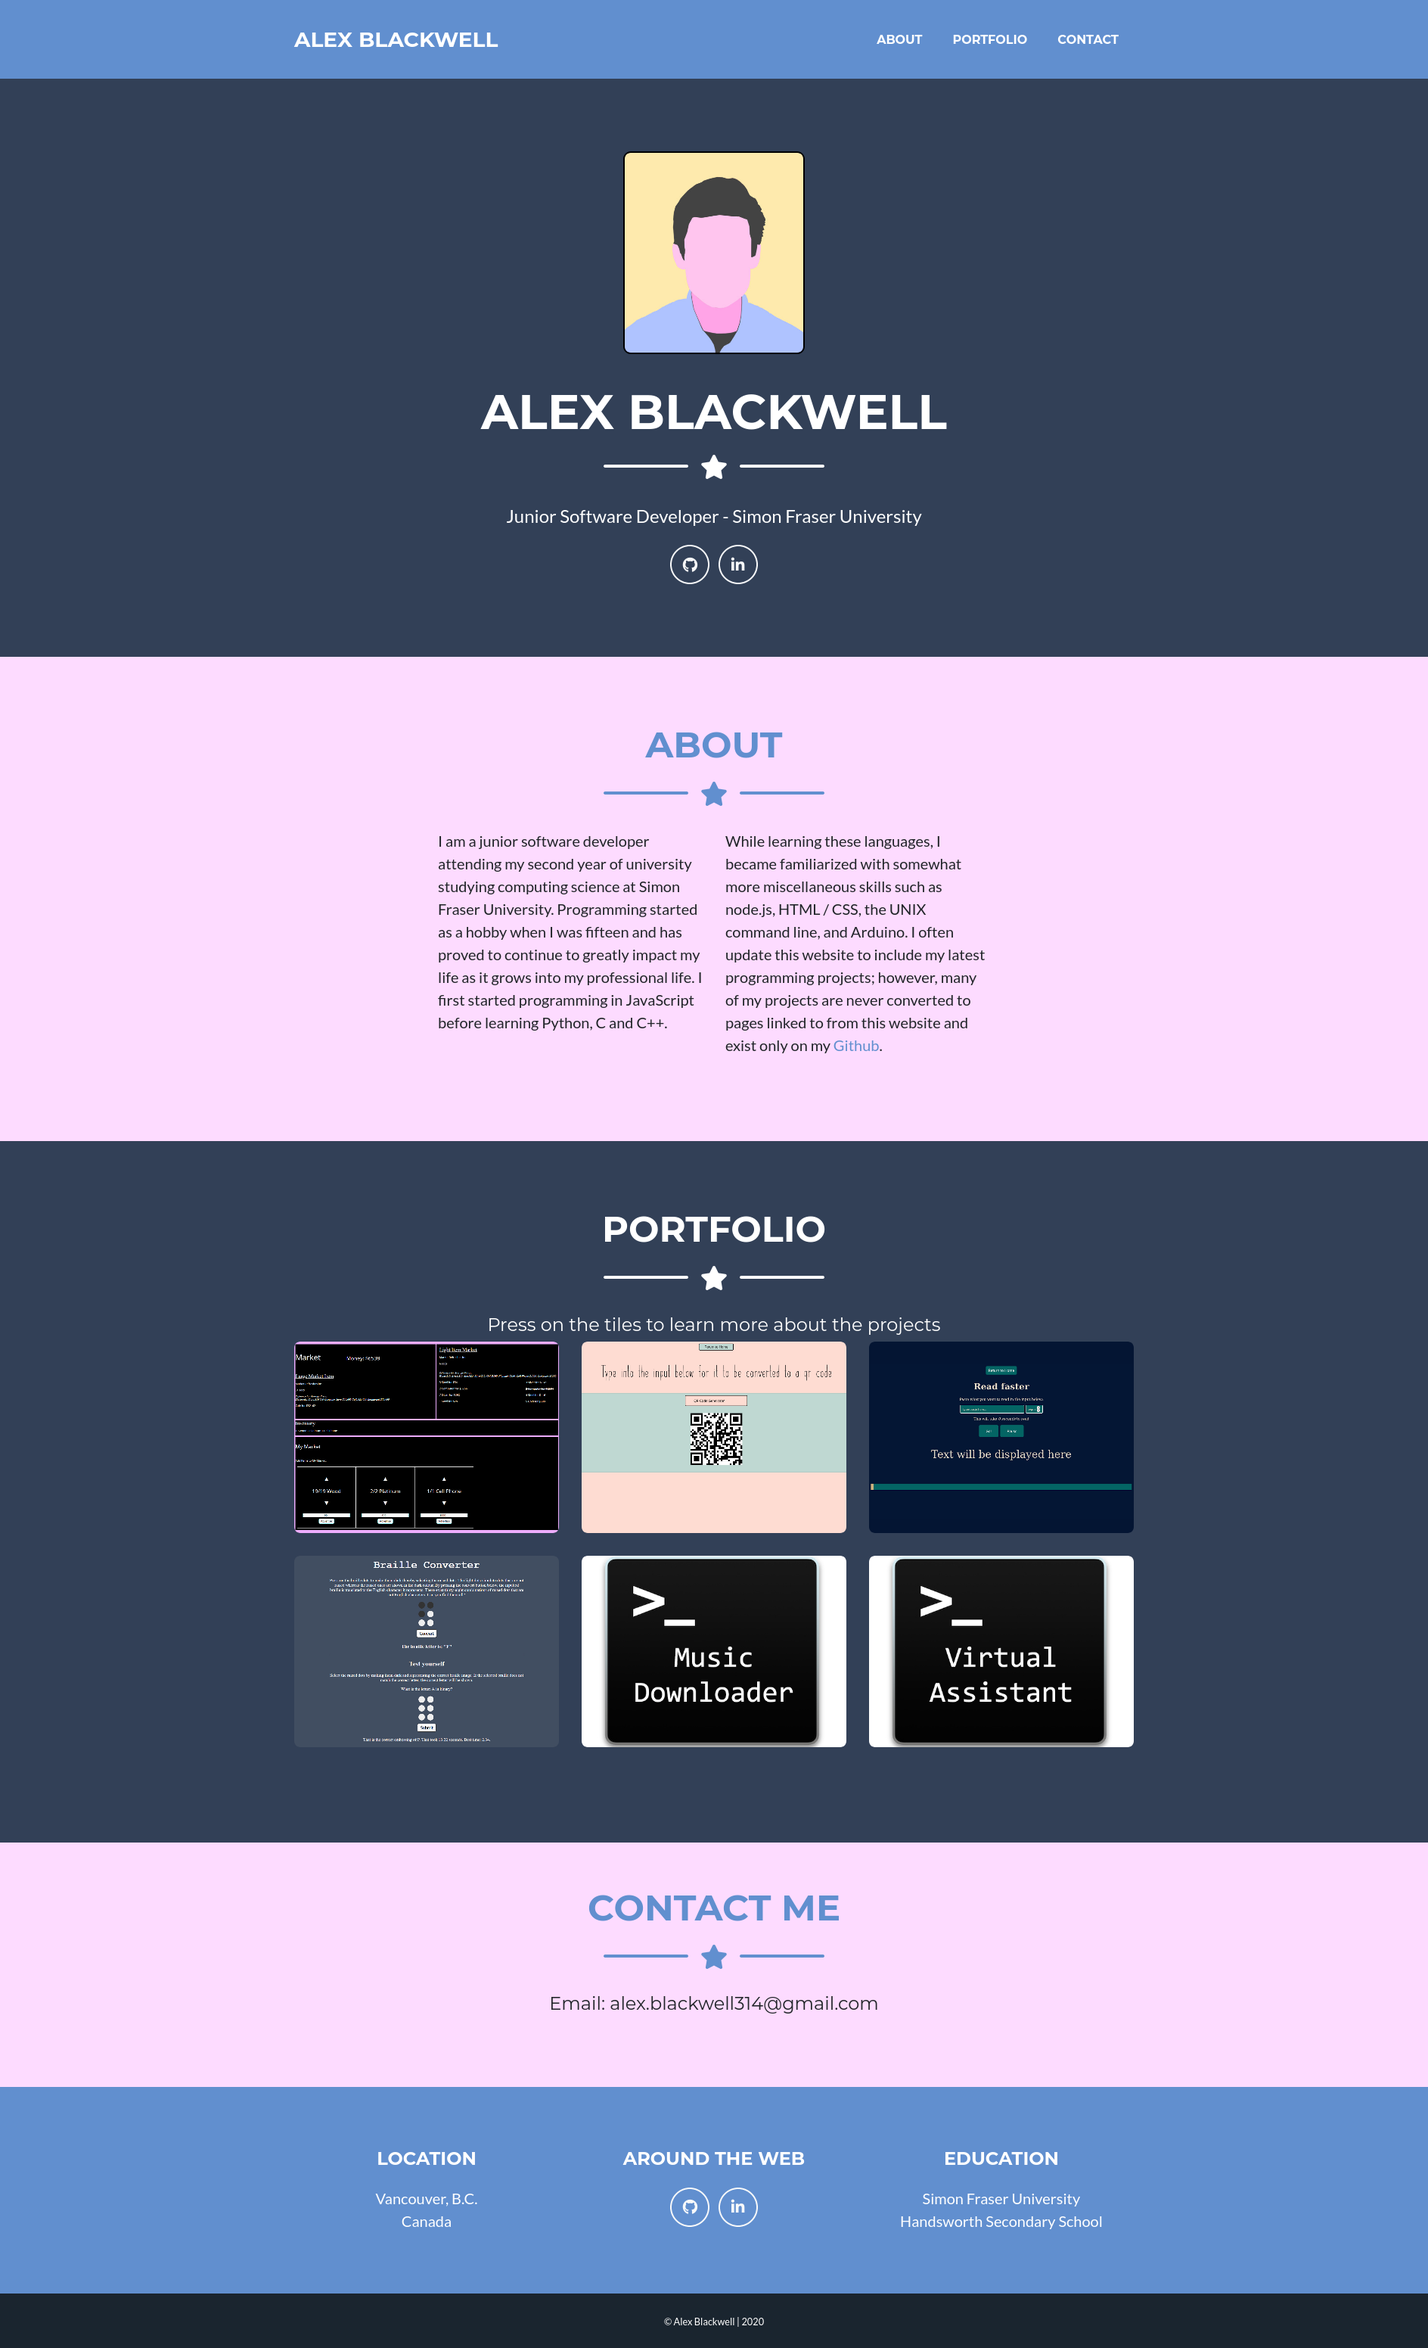
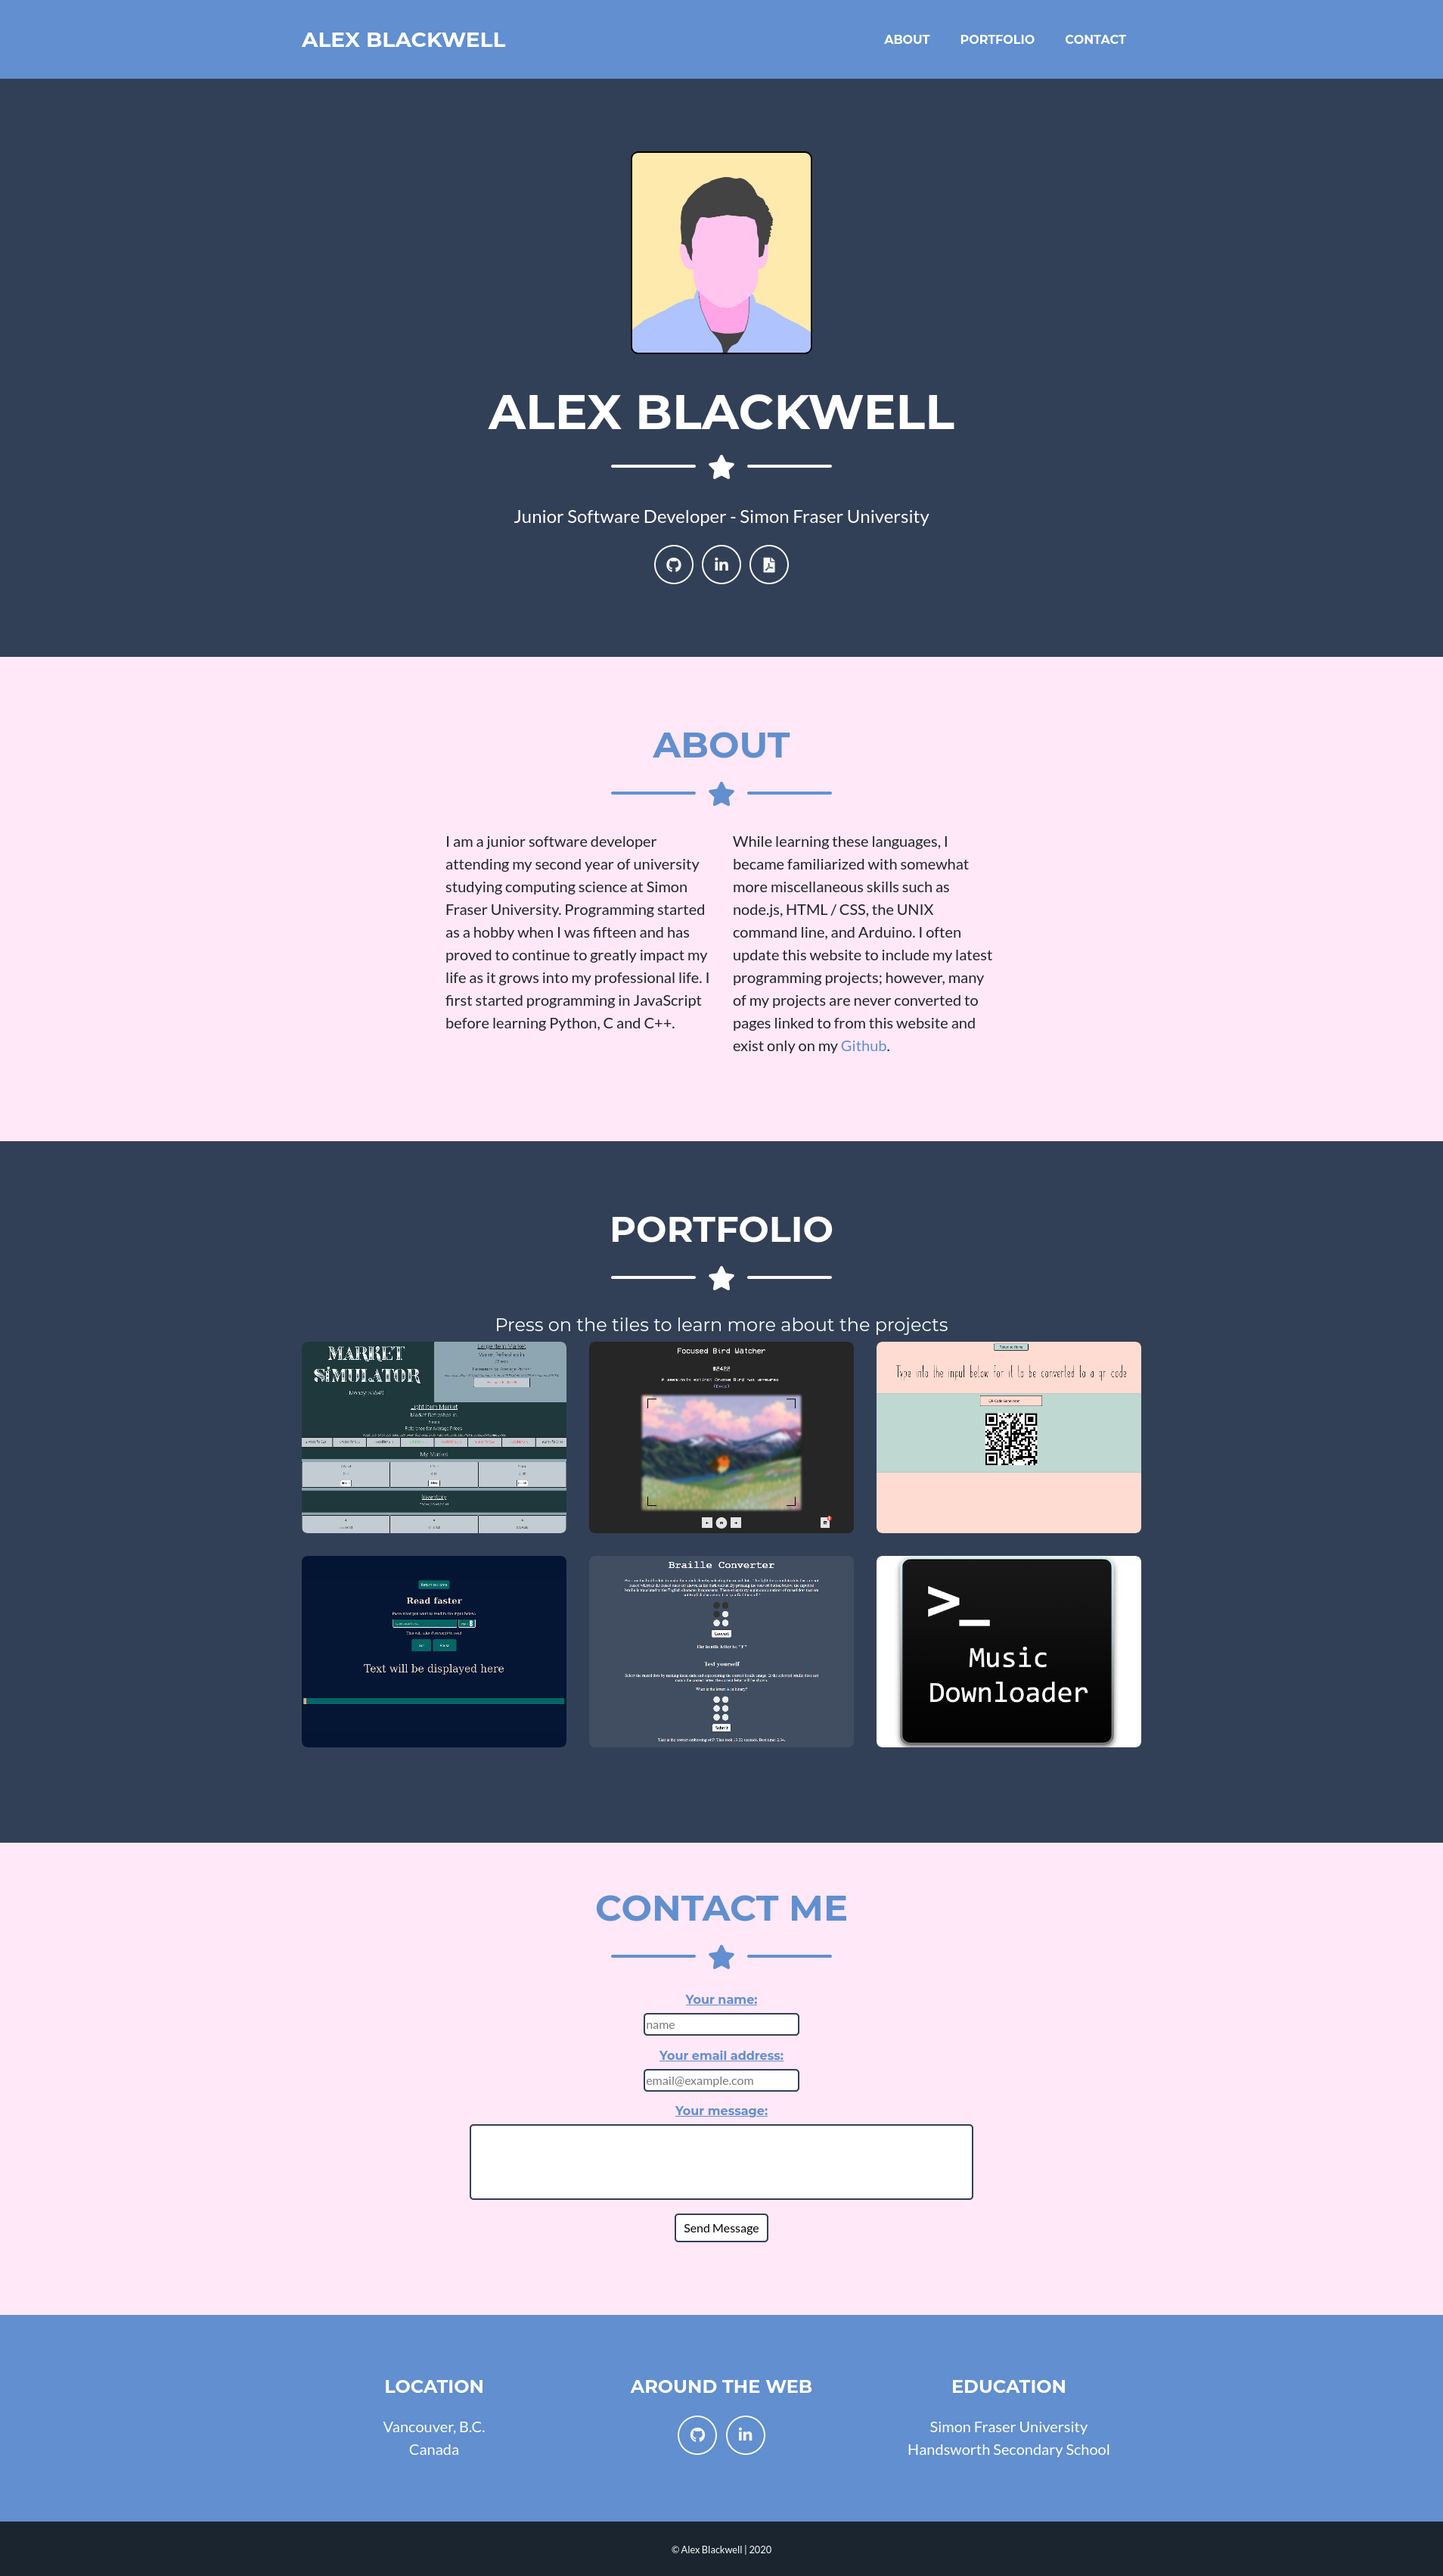
update readme and package.json

diff --git a/index.html b/index.html
@@ -588,88 +588,6 @@
     </div>
   </div>
 
-  <!-- Portfolio Modal 6 -->
-  <!-- <div class="portfolio-modal modal fade" id="portfolioModal6" tabindex="-1" role="dialog" aria-labelledby="portfolioModal6Label" aria-hidden="true">
-    <div class="modal-dialog modal-xl" role="document">
-      <div class="modal-content">
-        <button type="button" class="close" data-dismiss="modal" aria-label="Close">
-          <span aria-hidden="true">
-            <i class="fas fa-times"></i>
-          </span>
-        </button>
-        <div class="modal-body text-center">
-          <div class="container">
-            <div class="row justify-content-center">
-              <div class="col-lg-8">
-
-                <h2 class="portfolio-modal-title text-secondary text-uppercase mb-0">Virtual Assistant</h2>
-
-                <div class="divider-custom">
-                  <div class="divider-custom-line"></div>
-                  <div class="divider-custom-icon">
-                    <i class="fas fa-star"></i>
-                  </div>
-                  <div class="divider-custom-line"></div>
-                </div>
-
-                <a href="https://github.com/Alex0Blackwell/virtual-assistant">
-                  <img class="img-fluid rounded mb-5" src="img/portfolio/terminalVirtual.jpg" alt="">
-                </a>
-
-                <p class="mb-5">This is a python based virtual assistant (named Grimmels). The assistant has the ability to parse speech to text and with this text, add features. Among the virtual assistants' features include responding to greeting-type phrases and setting timers. The program uses the following modules for recording / writing .wav files, and recognizing speech to text. <br> The Github link can be found <a href="https://github.com/Alex0Blackwell/virtual-assistant">here</a>.</p>
-                <button class="btn btn-primary" href="#" data-dismiss="modal">
-                  <i class="fas fa-times fa-fw"></i>
-                  Close Window
-                </button>
-              </div>
-            </div>
-          </div>
-        </div>
-      </div>
-    </div>
-  </div> -->
-
-  <!-- Portfolio Modal 7 not shown -->
-  <!-- <div class="portfolio-modal modal fade" id="portfolioModal6" tabindex="-1" role="dialog" aria-labelledby="portfolioModal6Label" aria-hidden="true">
-    <div class="modal-dialog modal-xl" role="document">
-      <div class="modal-content">
-        <button type="button" class="close" data-dismiss="modal" aria-label="Close">
-          <span aria-hidden="true">
-            <i class="fas fa-times"></i>
-          </span>
-        </button>
-        <div class="modal-body text-center">
-          <div class="container">
-            <div class="row justify-content-center">
-              <div class="col-lg-8"> -->
-                <!-- Portfolio Modal - Title -->
-                <!-- <h2 class="portfolio-modal-title text-secondary text-uppercase mb-0">Photo Resizer</h2> -->
-                <!-- Icon Divider -->
-                <!-- <div class="divider-custom">
-                  <div class="divider-custom-line"></div>
-                  <div class="divider-custom-icon">
-                    <i class="fas fa-star"></i>
-                  </div>
-                  <div class="divider-custom-line"></div>
-                </div> -->
-                <!-- Portfolio Modal - Image -->
-                <!-- <a href="https://github.com/Alex0Blackwell/python-projects/tree/master/photoResize">
-                  <img class="img-fluid rounded mb-5" src="img/portfolio/terminalResize.jpg" alt="">
-                </a> -->
-                <!-- Portfolio Modal - Text -->
-                <!-- <p class="mb-5">This Python project uses the Pillow library to resize a given image based on the prompted dimensions given by the user.<br> The Github link can be found <a href="https://github.com/Alex0Blackwell/python-projects/tree/master/photoResize">here</a></p>
-                <button class="btn btn-primary" href="#" data-dismiss="modal">
-                  <i class="fas fa-times fa-fw"></i>
-                  Close Window
-                </button>
-              </div>
-            </div>
-          </div>
-        </div>
-      </div>
-    </div>
-  </div> -->
-
   <!-- Bootstrap core JavaScript -->
   <script src="vendor/jquery/jquery.min.js"></script>
   <script src="vendor/bootstrap/js/bootstrap.bundle.min.js"></script>

diff --git a/README.md b/README.md
@@ -1,5 +1,27 @@
-# Personal Website:
-Personal Website displaying projects and information about myself.
+# Personal Website
 
-## The Website:
-![](pictures/fullWeb.png)
+## Table of contents
+* [Overview](#overview)
+* [Screenshots](#screenshots)
+* [Technologies](#technologies)
+
+## Overview
+[Personal Website](https://alex0blackwell.github.io/)  
+This is my personal Website displaying projects and information about myself. Many of my projects are only on my Github but some projects are displayed on my website. The website also includes information about my self, links to places I'm found around the web, and the option to self me Emails.
+
+## Screenshots
+
+    > Screenshot of the website
+
+![Screenshot](pictures/fullWeb.png "The main page")
+
+## Technologies
+- **JavaScript**
+- **HTML5 / CSS3, Sass**
+- **Bootstrap 4.3**
+- **Jquery 3.5**
+- **Pageclip**
+  - For processing forms on Github's static hosting
+
+## License
+Liscensed under the [MIT](LICENSE) license.
